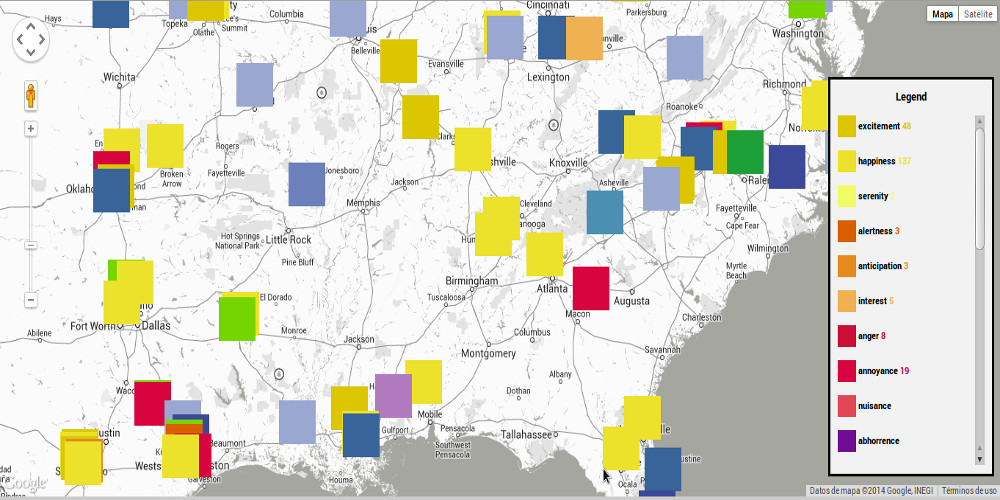
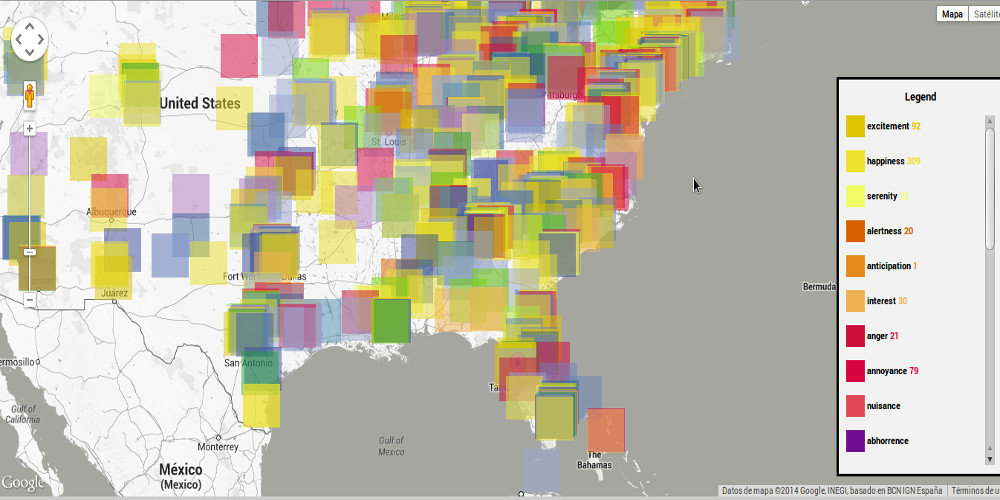
Updates 2014-2-22

diff --git a/project_code/Emotional_Maps/public/javascripts/io-connection.js b/project_code/Emotional_Maps/public/javascripts/io-connection.js
@@ -66,183 +66,184 @@ $(function(){
         var myLatLng = new google.maps.LatLng(lat,lng);
         var marker = new google.maps.Marker({
             position: myLatLng,
+            animation: google.maps.Animation.BOUNCE,
             map: map
         });
             
         if (/excitement/.test(tweetText) || /excited/.test(tweetText) || /Excitement/.test(tweetText) || /Excited/.test(tweetText) || /EXCITEMENT/.test(tweetText) || /EXCITED/.test(tweetText)){
-            var iconFile = '/images/excitement.png';
+            var iconFile = '/images/markers/excitement.png';
             marker.setIcon(iconFile)
             counter_excitement++;
             excitement.innerHTML = counter_excitement;
         }
             
         if (/happiness/.test(tweetText) || /happy/.test(tweetText) || /Happy/.test(tweetText) || /Happiness/.test(tweetText) || /HAPPY/.test(tweetText) || /HAPPINESS/.test(tweetText)){
-            var iconFile = '/images/happiness.png';
+            var iconFile = '/images/markers/happiness.png';
             marker.setIcon(iconFile)
             counter_happiness++;
             happiness.innerHTML = counter_happiness;
         }
             
         if (/serenity/.test(tweetText) || /serene/.test(tweetText) || /calm/.test(tweetText) || /Serenity/.test(tweetText) || /Serene/.test(tweetText) || /Calm/.test(tweetText) || /SERENITY/.test(tweetText) || /SERENE/.test(tweetText) || /CALM/.test(tweetText)){
-            var iconFile = '/images/serenity.png';
+            var iconFile = '/images/markers/serenity.png';
             marker.setIcon(iconFile)
             counter_serenity++;
             serenity.innerHTML = counter_serenity;
         }  
             
         if (/alertness/.test(tweetText) || /alert/.test(tweetText) || /Alertness/.test(tweetText) || /Alert/.test(tweetText) || /ALERTNESS/.test(tweetText) || /ALERT/.test(tweetText)){
-            var iconFile = '/images/alertness.png';
+            var iconFile = '/images/markers/alertness.png';
             marker.setIcon(iconFile)
             counter_alertness++;
             alertness.innerHTML = counter_alertness;
         }
             
         if (/anticipation/.test(tweetText) || /anticipate/.test(tweetText) || /anticipated/.test(tweetText) || /Anticipation/.test(tweetText) || /Anticipate/.test(tweetText) || /Anticipated/.test(tweetText) || /ANTICIPATION/.test(tweetText) || /ANTICIPATE/.test(tweetText) || /ANTICIPATED/.test(tweetText)){
-            var iconFile = '/images/anticipation.png';
+            var iconFile = '/images/markers/anticipation.png';
             marker.setIcon(iconFile)
             counter_anticipation++;
             anticipation.innerHTML = counter_anticipation;
         }
             
         if (/interest/.test(tweetText) || /interesting/.test(tweetText)){
-            var iconFile = '/images/interest.png';
+            var iconFile = '/images/markers/interest.png';
             marker.setIcon(iconFile)
             counter_interest++;
             interest.innerHTML = counter_interest;
         }
         
         if (/anger/.test(tweetText) || /angry/.test(tweetText) || /Anger/.test(tweetText) || /Angry/.test(tweetText) || /ANGER/.test(tweetText) || /ANGRY/.test(tweetText)){
-            var iconFile = '/images/anger.png';
+            var iconFile = '/images/markers/anger.png';
             marker.setIcon(iconFile)
             counter_anger++;
             anger.innerHTML = counter_anger;
         }
         
         if (/annoyance/.test(tweetText) || /annoyed/.test(tweetText) || /annoying/.test(tweetText) || /Annoyance/.test(tweetText) || /Annoyed/.test(tweetText) || /Annoying/.test(tweetText) || /ANNOYANCE/.test(tweetText) || /ANNOYED/.test(tweetText) || /ANNOYING/.test(tweetText)){
-            var iconFile = '/images/annoyance.png';
+            var iconFile = '/images/markers/annoyance.png';
             marker.setIcon(iconFile)
             counter_annoyance++;
             annoyance.innerHTML = counter_annoyance;
         }
         
         if (/nuisance/.test(tweetText) || /Nuisance/.test(tweetText) || /NUISANCE/.test(tweetText)){
-            var iconFile = '/images/nuisance.png';
+            var iconFile = '/images/markers/nuisance.png';
             marker.setIcon(iconFile)
             counter_nuisance++;
             nuisance.innerHTML = counter_nuisance;
         }
         
         if (/abhorrence/.test(tweetText) || /Abhorrence/.test(tweetText) || /ABHORRENCE/.test(tweetText)){
-            var iconFile = '/images/abhorrence.png';
+            var iconFile = '/images/markers/abhorrence.png';
             marker.setIcon(iconFile)
             counter_abhorrence++;
             abhorrence.innerHTML = counter_abhorrence;
         }
         
         if (/pain/.test(tweetText) || /painful/.test(tweetText) || /Pain/.test(tweetText) || /Painful/.test(tweetText) || /PAIN/.test(tweetText) || /PAINFUL/.test(tweetText)){
-            var iconFile = '/images/pain.png';
+            var iconFile = '/images/markers/pain.png';
             marker.setIcon(iconFile)
             counter_pain++;
             pain.innerHTML = counter_pain;
         }
         
         if (/boredom/.test(tweetText) || /boring/.test(tweetText) || /Boredom/.test(tweetText) || /Boring/.test(tweetText) || /BOREDOM/.test(tweetText) || /BORING/.test(tweetText)){
-            var iconFile = '/images/boredom.png';
+            var iconFile = '/images/markers/boredom.png';
             marker.setIcon(iconFile)
             counter_boredom++;
             boredom.innerHTML = counter_boredom;
         }
         
         if (/sadness/.test(tweetText) || /sad/.test(tweetText) || /Sadness/.test(tweetText) || /Sad/.test(tweetText) || /SADNESS/.test(tweetText) || /SAD/.test(tweetText)){
-            var iconFile = '/images/sadness.png';
+            var iconFile = '/images/markers/sadness.png';
             marker.setIcon(iconFile)
             counter_sadness++;
             sadness.innerHTML = counter_sadness;
         }
         
         if (/pensive/.test(tweetText) || /thoughtful/.test(tweetText) || /guess/.test(tweetText) || /Pensive/.test(tweetText) || /Thoughtful/.test(tweetText) || /Guess/.test(tweetText) || /PENSIVE/.test(tweetText) || /THOUGHTFUL/.test(tweetText) || /GUESS/.test(tweetText)){
-            var iconFile = '/images/pensive.png';
+            var iconFile = '/images/markers/pensive.png';
             marker.setIcon(iconFile)
             counter_pensive++;
             pensive.innerHTML = counter_pensive;
         }
         
         if (/amazed/.test(tweetText) || /amazing/.test(tweetText) || /Amazed/.test(tweetText) || /Amazing/.test(tweetText) || /AMAZED/.test(tweetText) || /AMAZING/.test(tweetText)){
-            var iconFile = '/images/amazed.png';
+            var iconFile = '/images/markers/amazed.png';
             marker.setIcon(iconFile)
             counter_amazed++;
             amazed.innerHTML = counter_amazed;
         }
         
         if (/surprised/.test(tweetText) || /surprise/.test(tweetText) || /Surprised/.test(tweetText) || /Surprise/.test(tweetText) || /SURPRISED/.test(tweetText) || /SURPRISE/.test(tweetText)){
-            var iconFile = '/images/surprised.png';
+            var iconFile = '/images/markers/surprised.png';
             marker.setIcon(iconFile)
             counter_surprised++;
             surprised.innerHTML = counter_surprised;
         }
         
         if (/distracted/.test(tweetText) || /distraction/.test(tweetText) || /Distracted/.test(tweetText) || /Distraction/.test(tweetText) || /DISTRACTED/.test(tweetText) || /DISTRACTION/.test(tweetText)){
-            var iconFile = '/images/distracted.png';
+            var iconFile = '/images/markers/distracted.png';
             marker.setIcon(iconFile)
             counter_distracted++;
             distracted.innerHTML = counter_distracted;
         }
         
         if (/terrified/.test(tweetText) || /Terrified/.test(tweetText) || /TERRIFIED/.test(tweetText)){
-            var iconFile = '/images/terrified.png';
+            var iconFile = '/images/markers/terrified.png';
             marker.setIcon(iconFile)
             counter_terrified++;
             terrified.innerHTML = counter_terrified;
         }
         
         if (/fear/.test(tweetText) || /Fear/.test(tweetText) || /FEAR/.test(tweetText)){
-            var iconFile = '/images/fear.png';
+            var iconFile = '/images/markers/fear.png';
             marker.setIcon(iconFile)
             counter_fear++;
             fear.innerHTML = counter_fear;
         }
         
         if (/apprehension/.test(tweetText) || /apprehensive/.test(tweetText) || /Apprehension/.test(tweetText) || /Apprehensive/.test(tweetText) || /APPREHENSION/.test(tweetText) || /APPREHENVISE/.test(tweetText)){
-            var iconFile = '/images/apprehension.png';
+            var iconFile = '/images/markers/apprehension.png';
             marker.setIcon(iconFile)
             counter_apprehension++;
             apprehension.innerHTML = counter_apprehension;
         }
         
         if (/admiration/.test(tweetText) || /admire/.test(tweetText) || /Admiration/.test(tweetText) || /Admire/.test(tweetText) || /ADMIRATION/.test(tweetText) || /ADMIRE/.test(tweetText)){
-            var iconFile = '/images/admiration.png';
+            var iconFile = '/images/markers/admiration.png';
             marker.setIcon(iconFile)
             counter_admiration++;
             admiration.innerHTML = counter_admiration;
         }
         
         if (/confident/.test(tweetText) || /confide/.test(tweetText) || /trust/.test(tweetText) || /Confident/.test(tweetText) || /Confide/.test(tweetText) || /Trust/.test(tweetText) || /CONFIDENT/.test(tweetText) || /CONFIDE/.test(tweetText) || /TRUST/.test(tweetText)){
-            var iconFile = '/images/confident.png';
+            var iconFile = '/images/markers/confident.png';
             marker.setIcon(iconFile)
             counter_confident++;
             confident.innerHTML = counter_confident;
         }
         
         if (/acceptance/.test(tweetText) || /accept/.test(tweetText) || /Acceptance/.test(tweetText) || /Accept/.test(tweetText) || /ACCEPTANCE/.test(tweetText) || /ACCEPT/.test(tweetText)){
-            var iconFile = '/images/acceptance.png';
+            var iconFile = '/images/markers/acceptance.png';
             marker.setIcon(iconFile)
             counter_acceptance++;
             acceptance.innerHTML = counter_acceptance;
         }
         
+        /*
         //crea un infowindow con el contenido del tweet
-        //var contentString = "<img class='displaypic' src='" + displayPicture + "'><strong>@" + screen_name + "</strong>: " + tweetText;
+        var contentString = "<img class='displaypic' src='" + displayPicture + "'><strong>@" + screen_name + "</strong>: " + "<p class='tweetText'>" + tweetText + "</p>";
         //asigna contenido al infowindow
-        //var infowindow = new google.maps.InfoWindow({
-          //  content: contentString
-        //});
+        var infowindow = new google.maps.InfoWindow({
+            content: contentString
+        });
         
         //abre el tweet en el infowindow
-        //infowindow.open(map, marker);
+        infowindow.open(map, marker);*/
         
         //mueve el mapa para enfocar al proximo tweet
         var newFocus = new google.maps.LatLng(lat,lng);
         map.setCenter(newFocus);
-    
     });
 });

diff --git a/project_code/Emotional_Maps/app.js b/project_code/Emotional_Maps/app.js
@@ -31,6 +31,21 @@
     access_token_key: '305235468-lRZ5wxlpjARUuLYfyXUerCrkM1dWZLQ1fkEfHKeg',
     access_token_secret: 'YdDW69LKe1JnyY1uCPLjPuR3IifFXHZTO0RI7Q0bNw6MR'
   });
+    
+    io.configure('production', function(){
+        console.log("set config for production");
+        io.enable('browser client minification');  // send minified client
+        io.enable('browser client etag');          // apply etag caching logic based on version number
+        io.enable('browser client gzip');          // gzip the file
+        io.set('log level', 1);                    // reduce logging
+        io.set('transports', [                     // enable all transports (optional if you want flashsocket)
+            'websocket'
+          , 'flashsocket'
+          , 'htmlfile'
+          , 'xhr-polling'
+          , 'jsonp-polling'
+        ]);
+      });
 
   io.sockets.on("connection", function(socket) {
     twit.stream("statuses/filter", {

diff --git a/project_code/Emotional_Maps/public/javascripts/map_init.js b/project_code/Emotional_Maps/public/javascripts/map_init.js
@@ -1,8 +1,9 @@
 var map
 function initialize() {
+    
         var mapOptions = {
           center: new google.maps.LatLng(-34.397, 150.644),
-          zoom: 7,
+          zoom: 5,
           mapTypeId: google.maps.MapTypeId.ROADMAP,
           styles: [
     {
@@ -124,8 +125,7 @@ function initialize() {
 ]
         };
         
-        map = new google.maps.Map(document.getElementById("map_canvas"),
-            mapOptions);
+        map = new google.maps.Map(document.getElementById("map_canvas"),mapOptions);
     
         var legend = document.getElementById('legend');
         var div1 = document.createElement('div');

diff --git a/project_code/Emotional_Maps/public/stylesheets/style.css b/project_code/Emotional_Maps/public/stylesheets/style.css
@@ -10,6 +10,9 @@ body #map_canvas {
   height: 100%;
   width: 100%;
 }
+body #no-has-user-media {
+  style: none;
+}
 body #legend {
   background: #f2f2f2;
   padding: 10px;
@@ -106,6 +109,7 @@ body #legend #strong_acceptance {
 }
 #div1.infowindow {
   background-color: #373737;
+  opacity: 0.3;
 }
 .gm-style-iw {
   color: #bbb;

diff --git a/project_posts/2014-2-22-Updates.md b/project_posts/2014-2-22-Updates.md
@@ -1,0 +1,5 @@
+Last pictures of this project, I'm also considering creating new views to display the tweets ... something inspired by Human Ecosystems (Art is Open Source)
+
+![Image](../project_images/post3.png?raw=true "Image")
+![Image](../project_images/post3_1.png?raw=true "Image")
+![Image](../project_images/post3_2.png?raw=true "Image")
